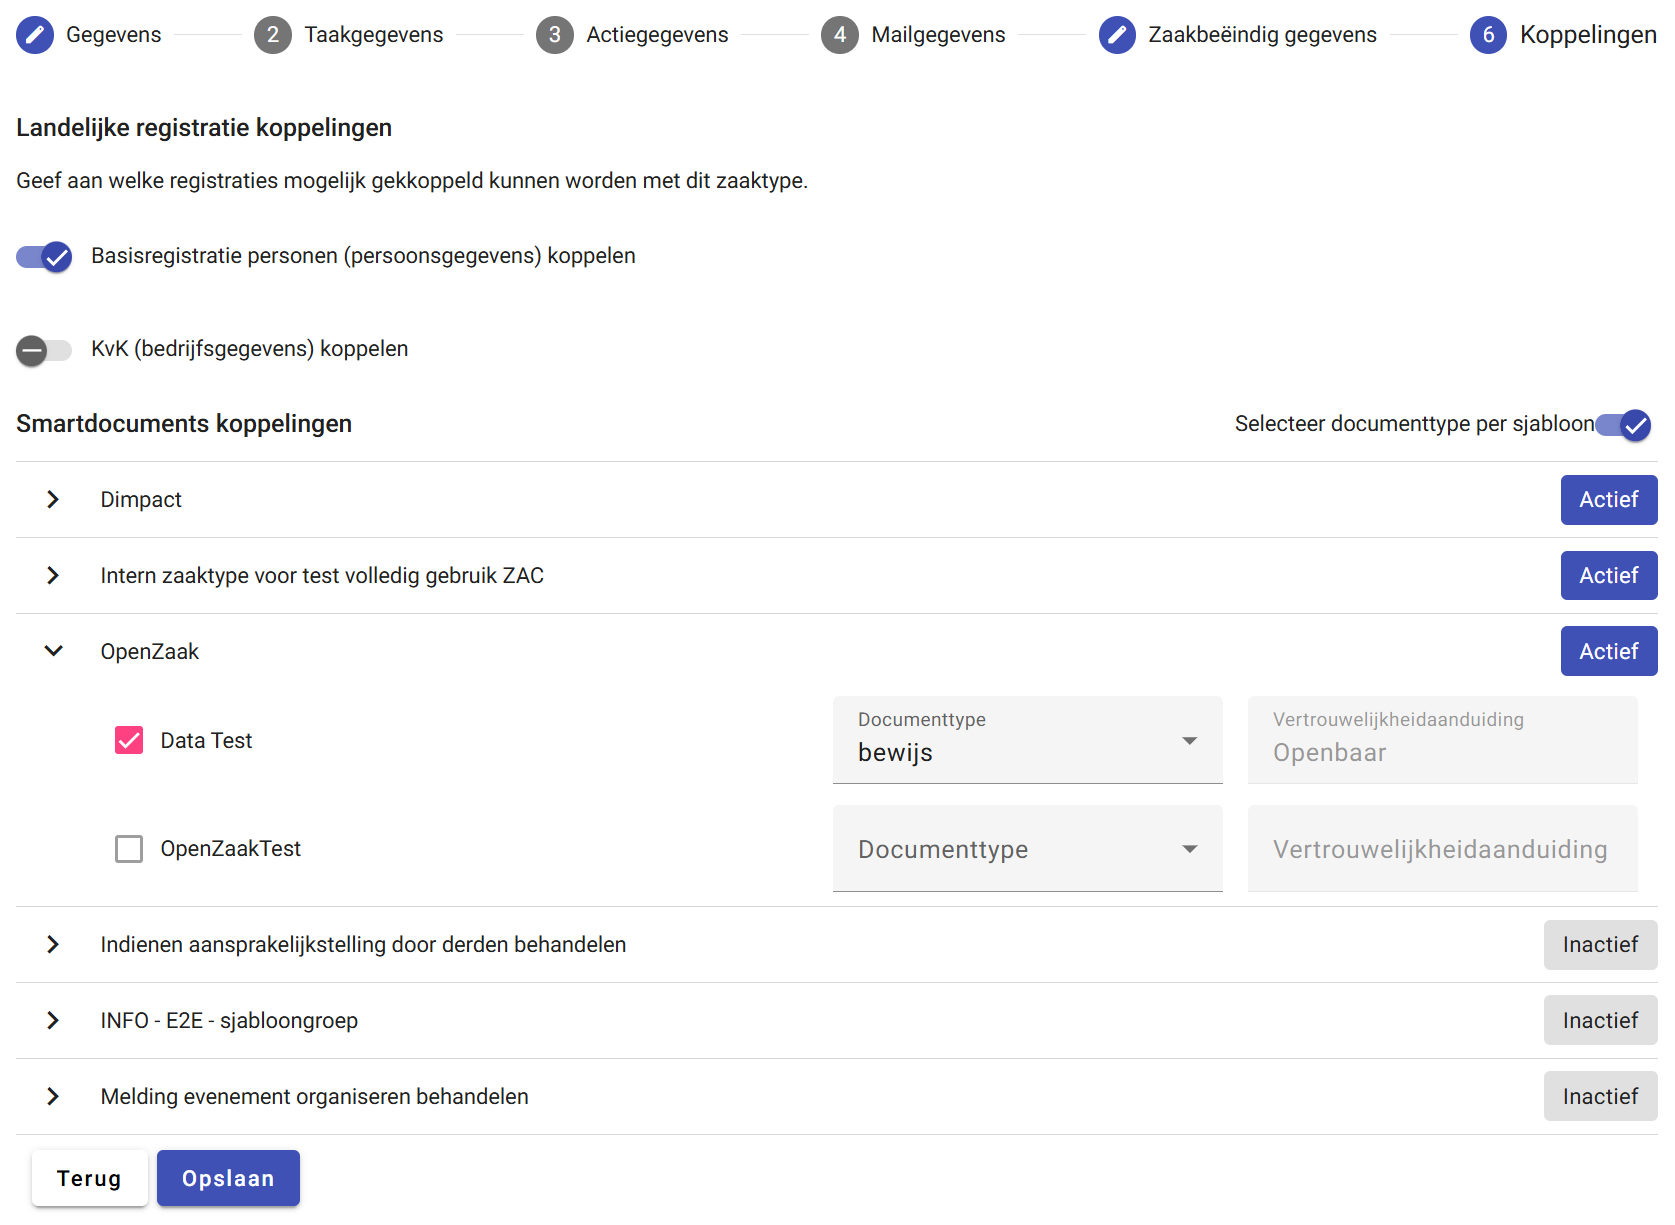
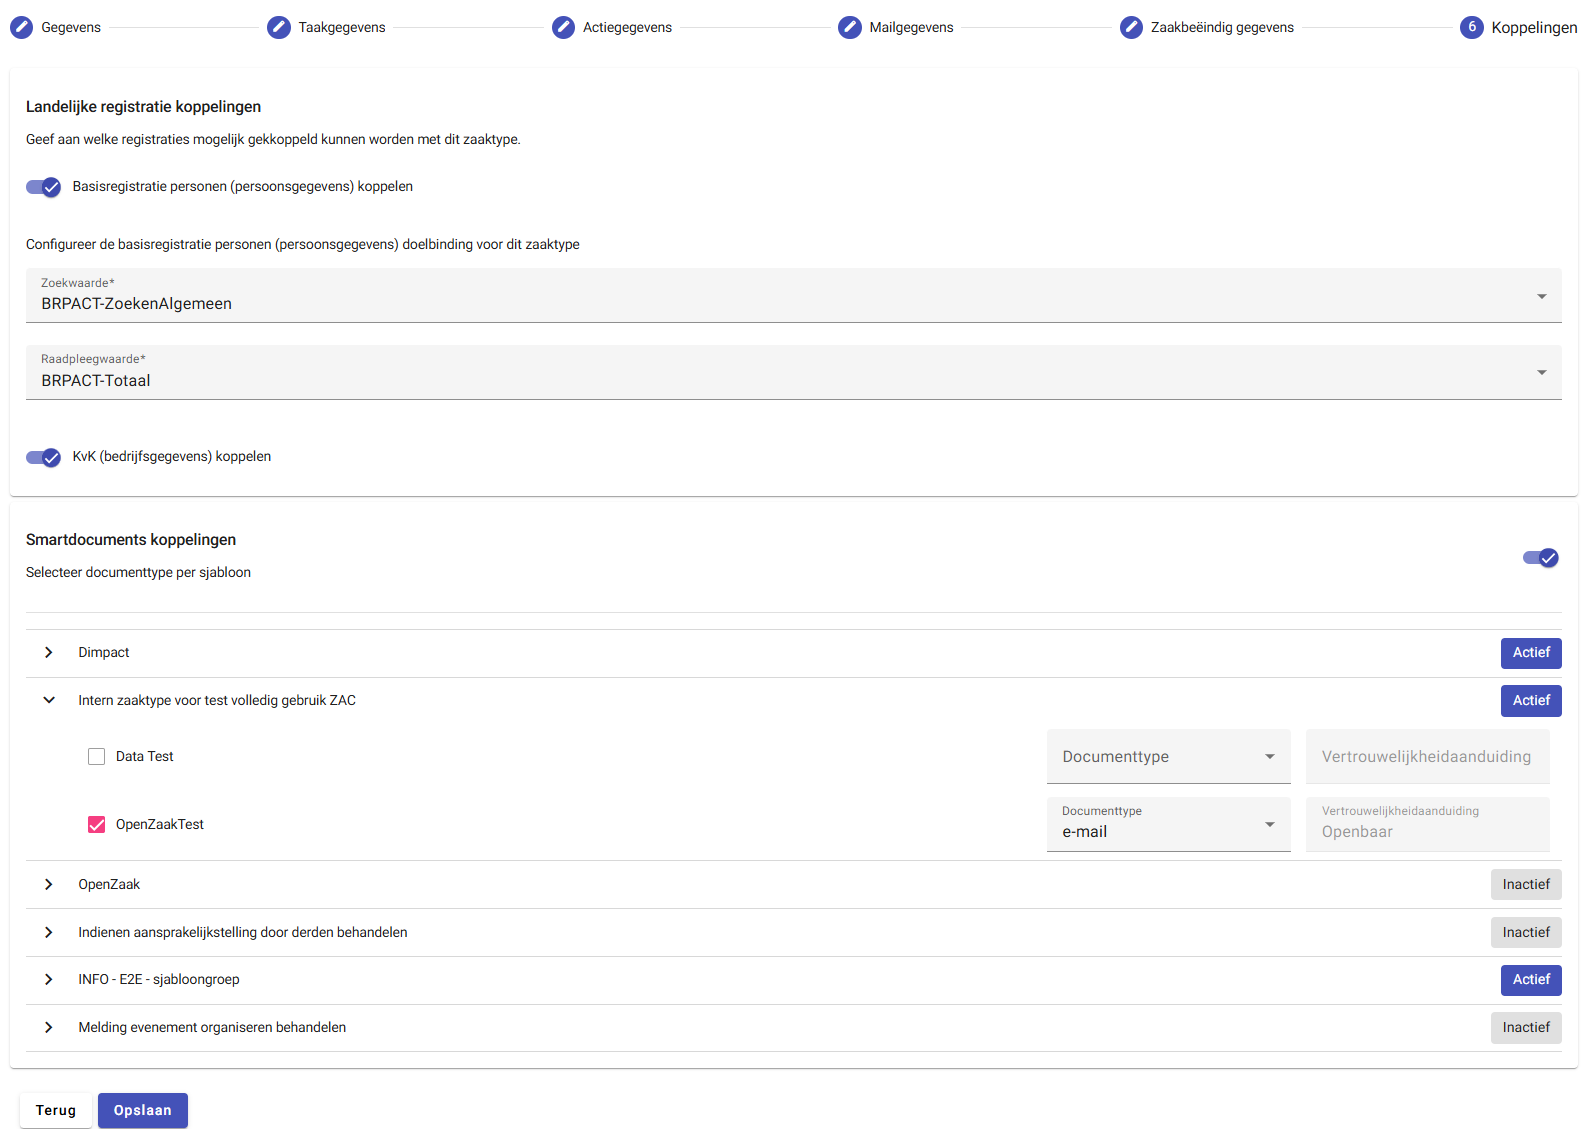
first additions and new screenshots Inrichting-zaakafhandelcomponent

diff --git a/docs/manuals/inrichting-zaakafhandelcomponent/inrichting-zaakafhandelcomponent.md b/docs/manuals/inrichting-zaakafhandelcomponent/inrichting-zaakafhandelcomponent.md
@@ -96,6 +96,7 @@ In sommige taakbehandelformulieren komen keuzelijsten voor waarvan de opties via
 ![image](images/zaps_advies_intern.png)
 #### Actiegegevens
 Ga verder naar het tabblad ‘Actiegegevens’. Bij de acties waarmee een gebruiker een fase afrondt is het mogelijk om een toelichting te tonen, denk aan een herinnering aan een belangrijke handeling die in die fase moete zijn uitgevoerd. Klik op een fase om de toelichting in het veld in te vullen.
+![image](images/zaps_actiegegevens.png)
 #### Mailgegevens
 1. Ga verder naar ‘Mailgegevens’. Tijdens de zaakbehandeling gebruikt de ZAC een aantal e-mails dat verstuurd wordt, voornamelijk aan de klant. Sommige van deze mails worden verplicht verstuurd en anderen zijn optioneel. De beschikbare opties bij alle mails kunnen in 'Mailgegevens' ingesteld worden. 
 - Voor de statusmails kan bepaald worden of deze beschikbaar zijn en wat de standaard geselecteerde keuze is:
@@ -143,6 +144,8 @@ ZAC maakt onderscheid tussen systeemreferentietabellen en zelf toegevoegde refer
 ZAC kent de volgende systeemreferentietabellen:
 - ADVIES | bevat de mogelijk waarde voor de keuzelijst ‘Advies’ die gebruikt wordt bij het afronden van de taak ‘Intern advies’
 - AFZENDER | bevat de mogelijke afzenders van een e-mail; zie sectie 'Mailafzenders' voor meer details
+- BRP_DOELBINDING_RAADPLEEG_WAARDE | bevat de 1ste waarde die gebruikt wordt bij het configureren de BRP doelbinding voor dit zaaktype
+- BRP_DOELBINDING_ZOEK_WAARDE | bevat de 2de waarde die gebruikt worden bij het configureren de BRP doelbinding voor dit zaaktype
 - COMMUNICATIEKANAAL | bevat de mogelijke waarden voor de keuzelijst ‘Communicatiekanaal’ die gebruikt wordt bij het aanmaken of aanpassen van een zaak
 - DOMEIN | bevat de mogelijke domeinen die gebruikt kunnen worden in de zaakafhandelparameters
 - SERVER_ERROR_ERROR_PAGINA_TEKST | bevat (optionele) tekstparagrafen die getoond worden bij foutmeldingen voor 'server errors' (technische fouten afkomstig van de server of onderliggende systemen). Door een volgende waarde toe te voegen, zal deze onder de al bestaande waarde(s) worden getoond bij de foutmelding. 
